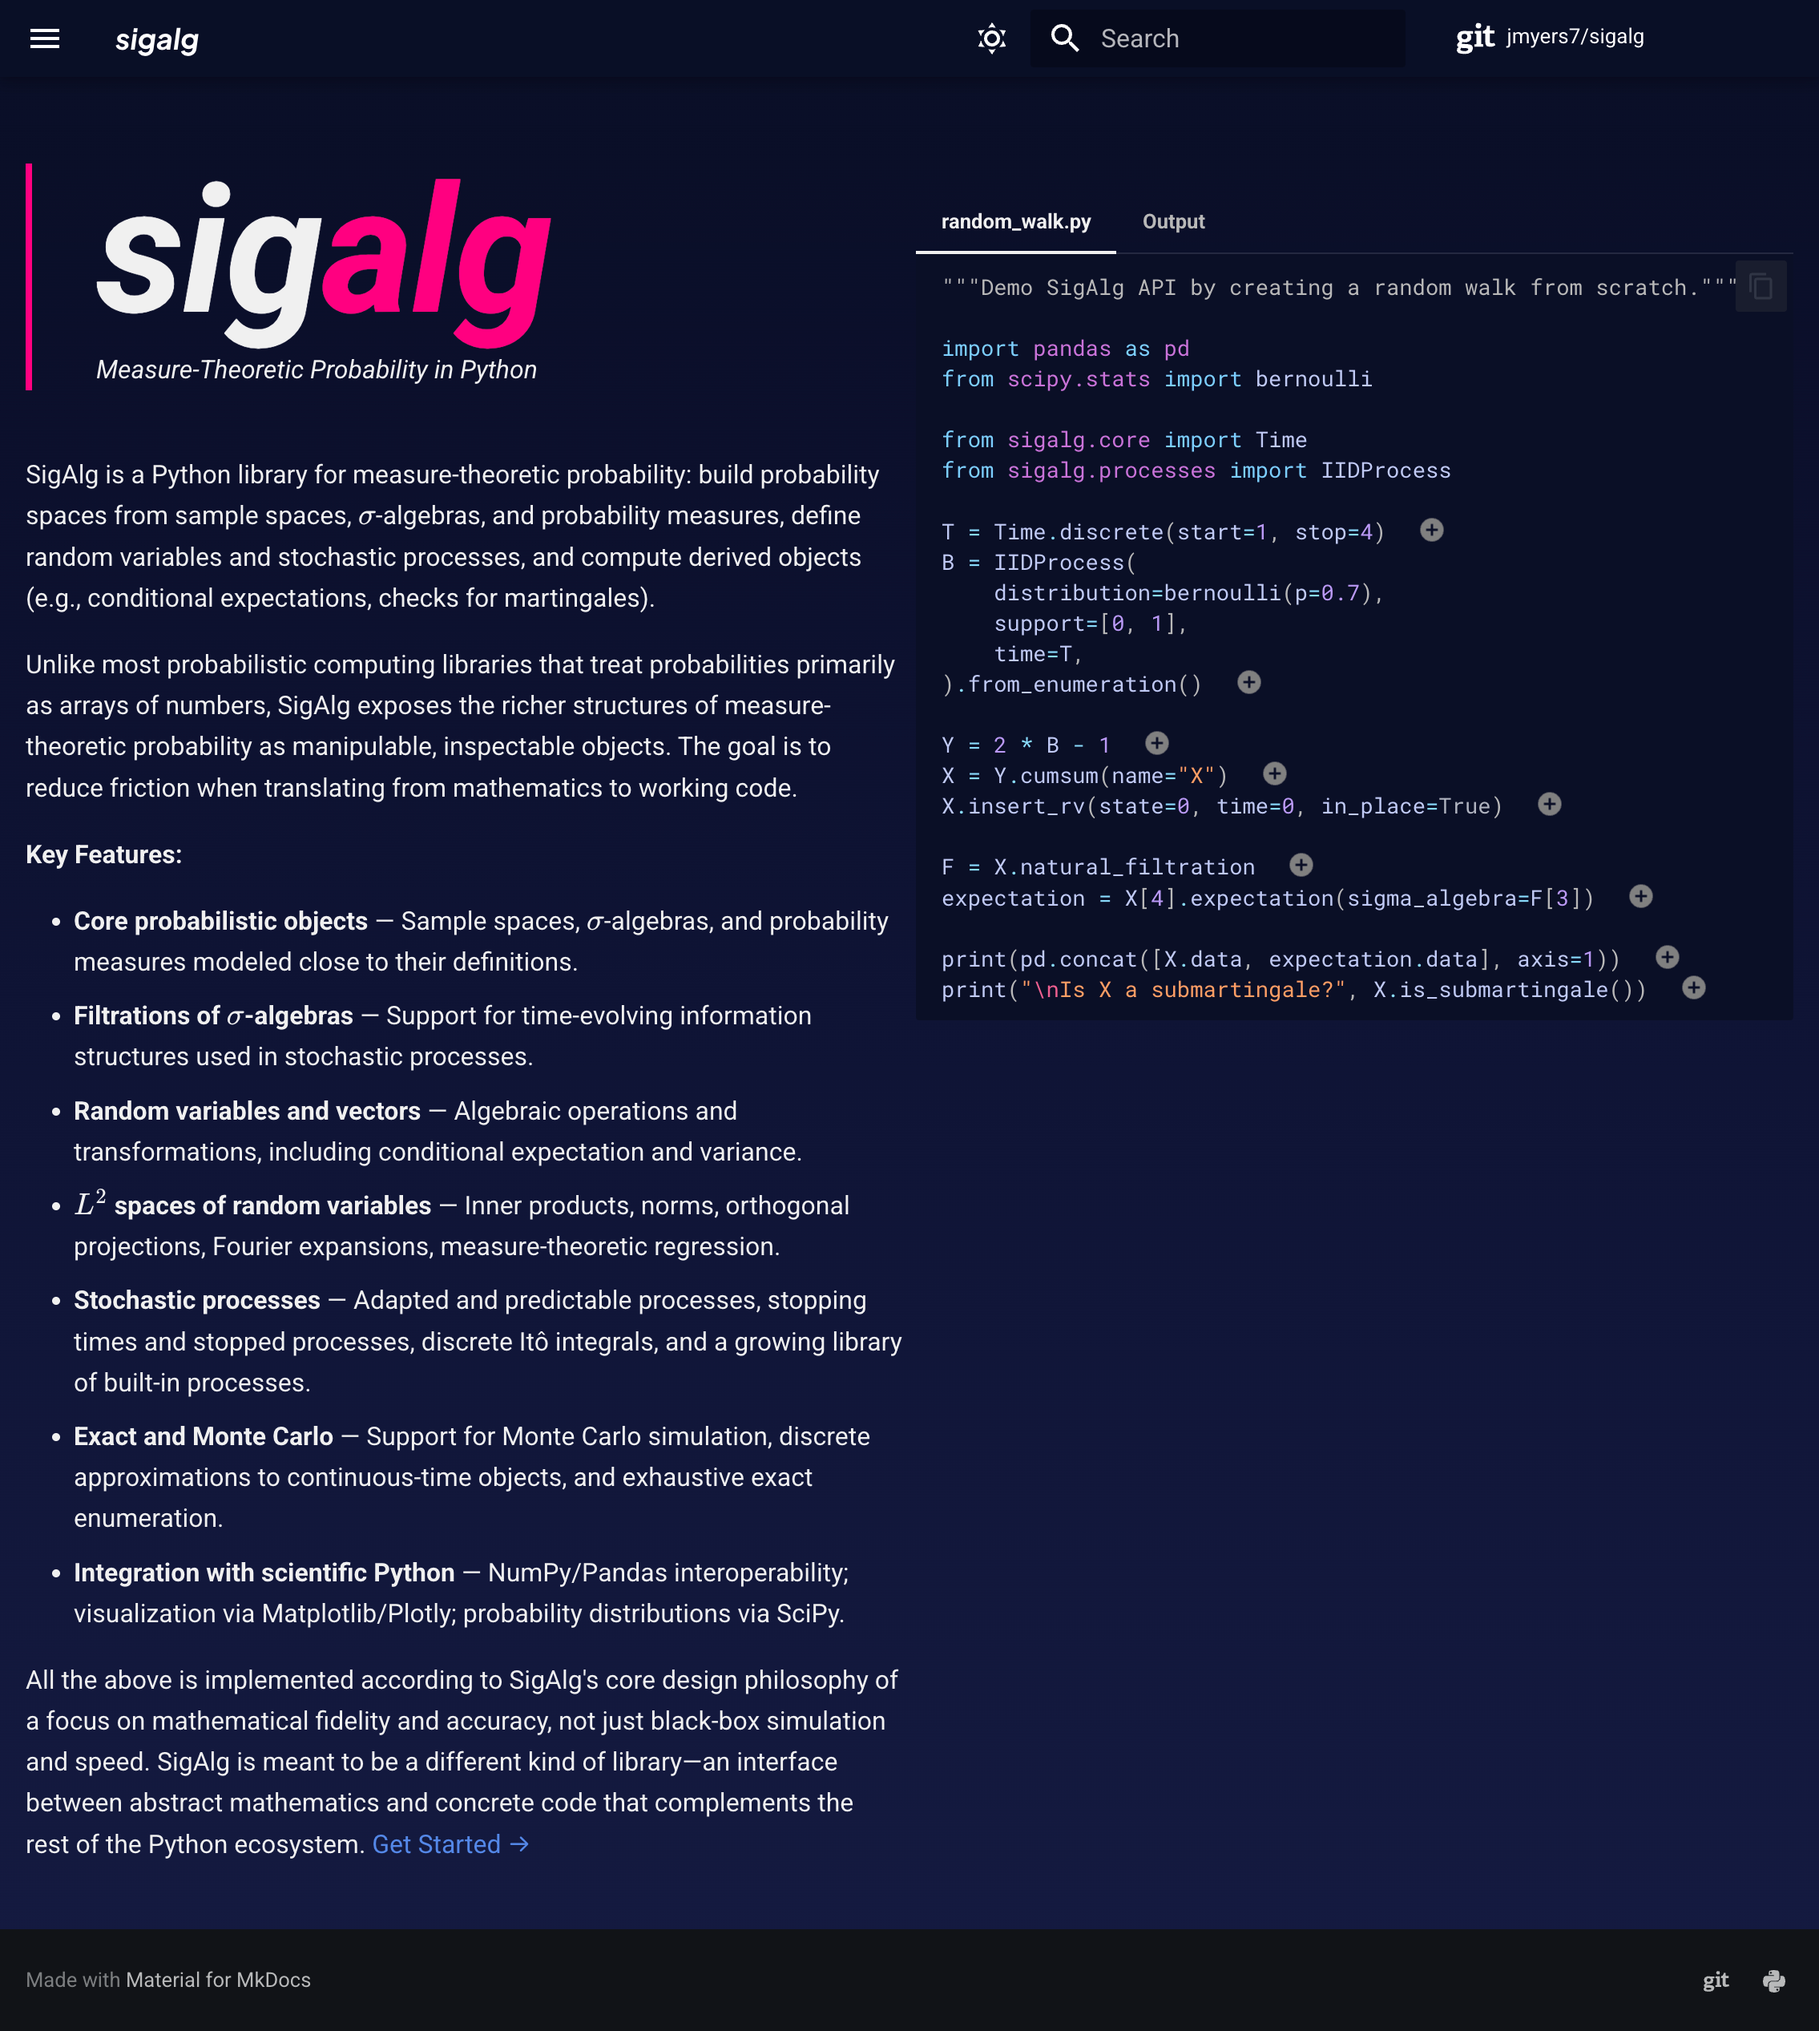
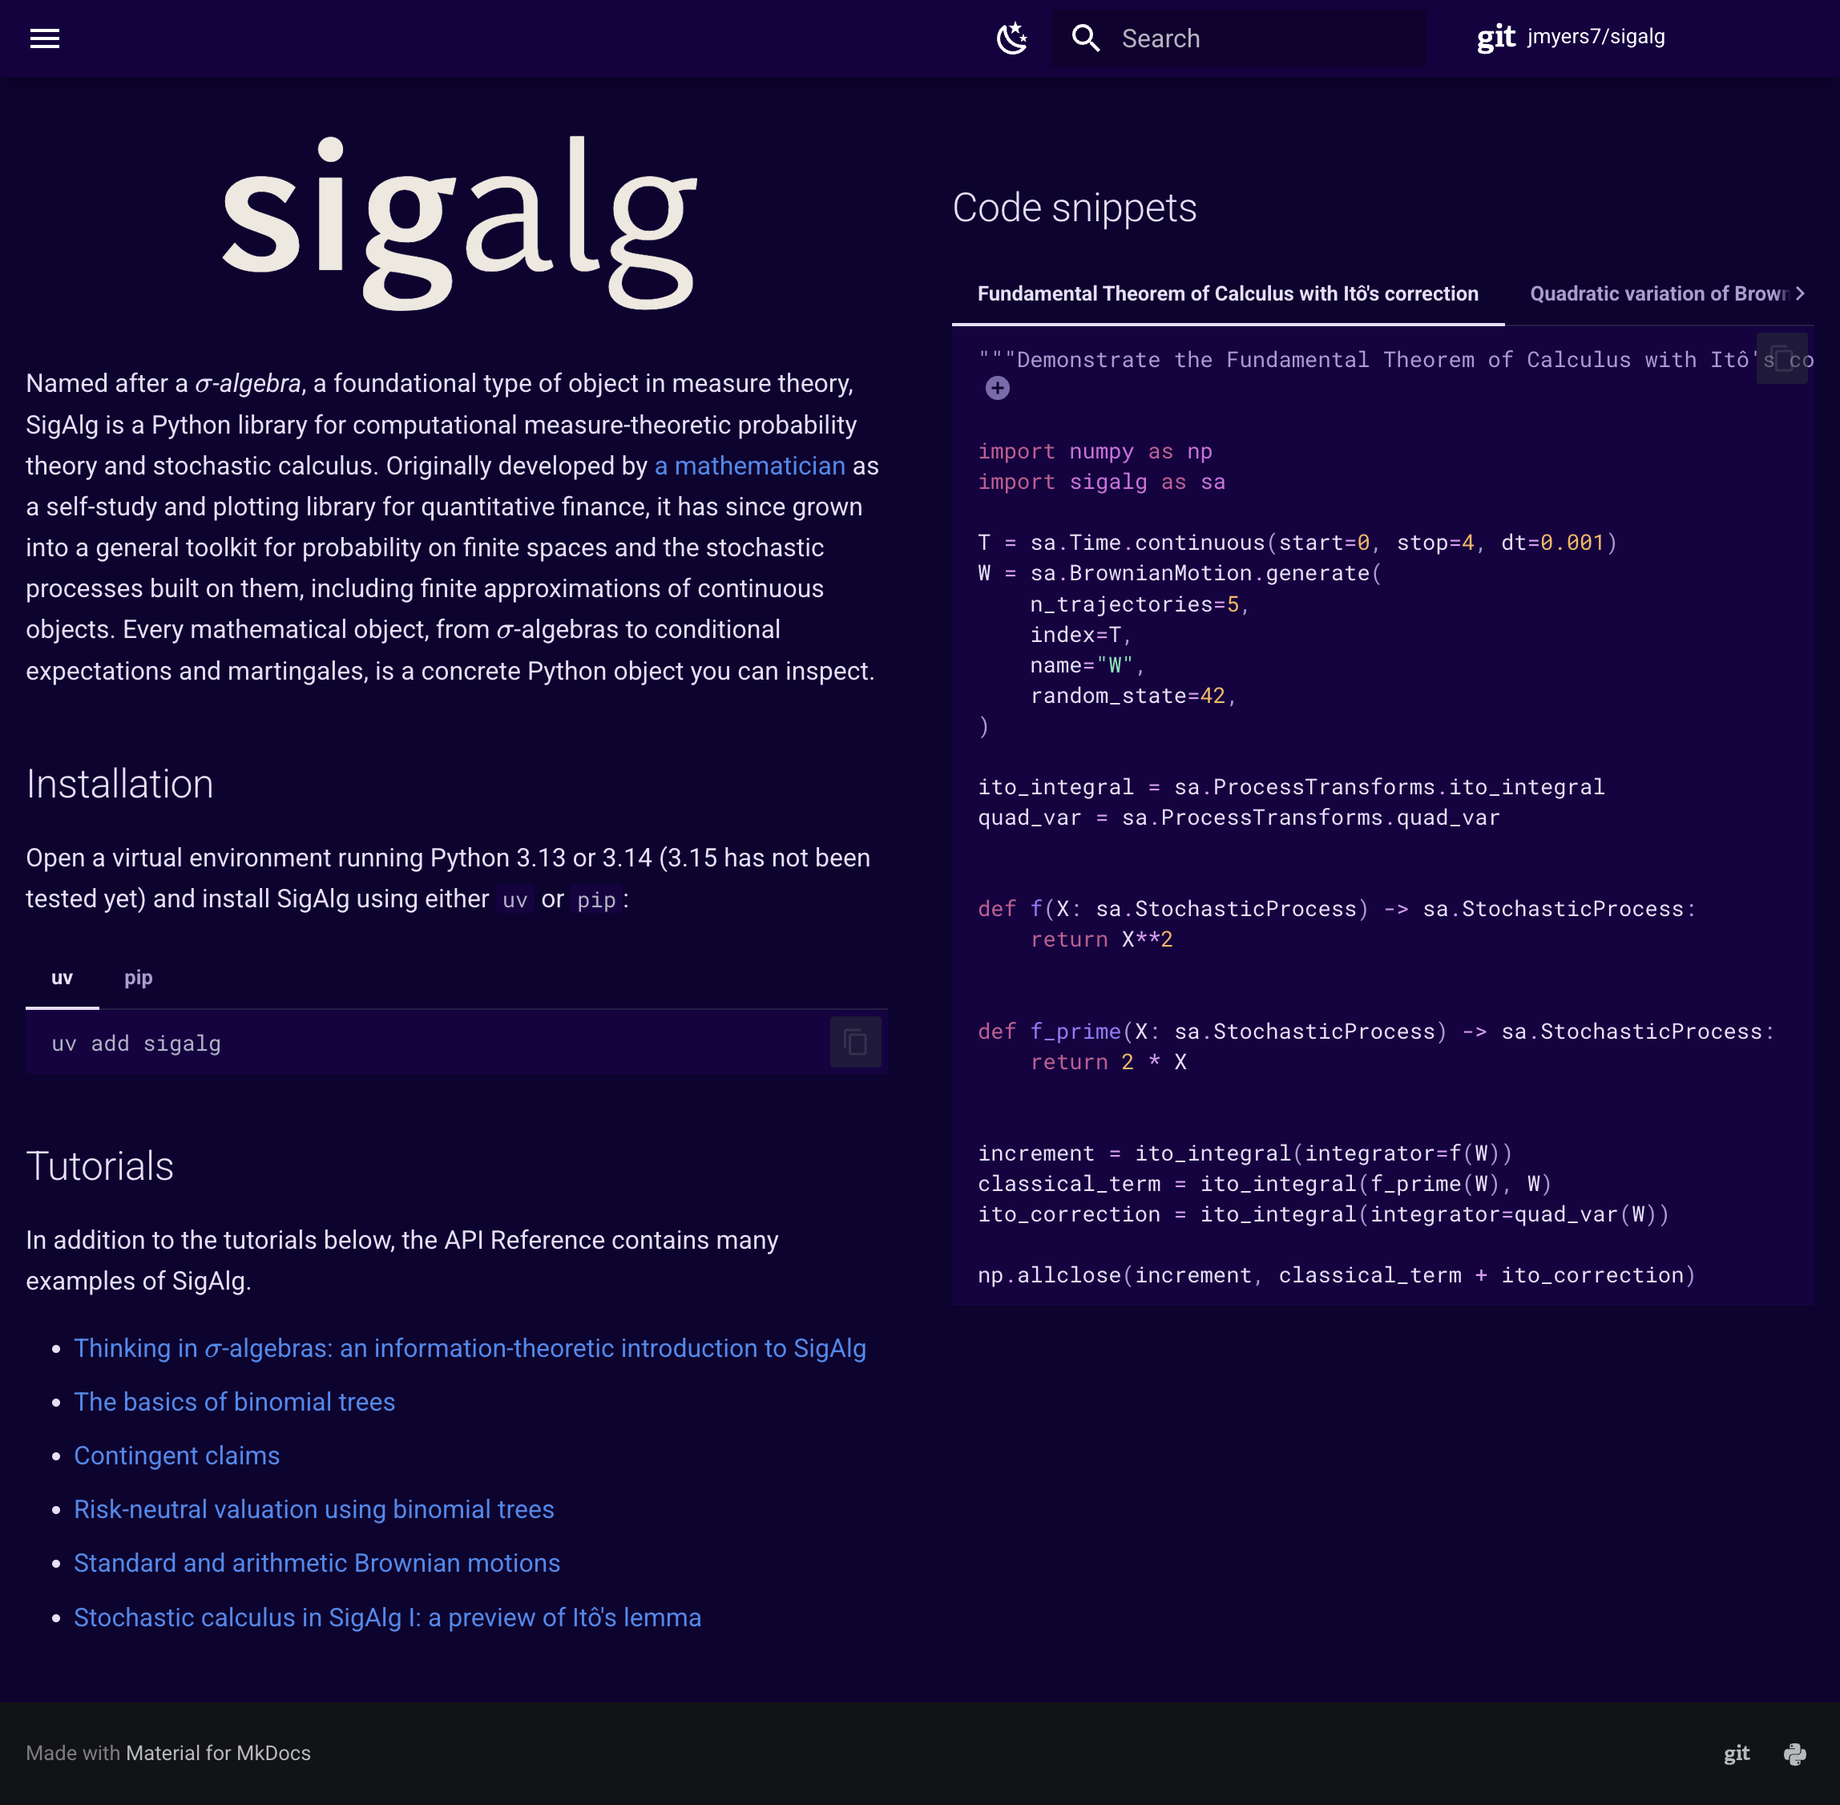
Update `docs` with new tutorial and rewritten landing page

diff --git a/docs/docs/stylesheets/extra.css b/docs/docs/stylesheets/extra.css
@@ -23,22 +23,22 @@
 }
 
 [data-md-color-scheme="default"] {
-    --md-primary-fg-color: #f0eafa;
-    --md-primary-fg-color--light: #faf7ff;
-    --md-primary-fg-color--dark: #f0eafa;
+    --md-primary-fg-color: #eeeef2;
+    --md-primary-fg-color--light: #f7f7f9;
+    --md-primary-fg-color--dark: #eeeef2;
 
     --md-accent-fg-color: #a03f74;
     --md-accent-fg-color--transparent: #a03f7433;
 
-    --md-default-bg-color: #faf7ff;
-    --md-default-bg-color--light: #f0eafa;
+    --md-default-bg-color: #f7f7f9;
+    --md-default-bg-color--light: #eeeef2;
     --md-default-bg-color--lighter: #ffffff;
 
     --md-default-fg-color: #0d032f;
     --md-default-fg-color--light: #5a4a8a;
     --md-default-fg-color--lighter: #7a6aa8;
 
-    --md-code-bg-color: #f0eafa;
+    --md-code-bg-color: #eeeef2;
     --md-typeset-a-color: #5a35c8;
 }
 
@@ -47,7 +47,7 @@
    ============================================================================= */
 
 [data-md-color-scheme="default"] .md-header {
-    background-color: rgba(240, 234, 250, 0.9) !important;
+    background-color: rgba(238, 238, 242, 0.98) !important;
     color: #25025c;
 }
 

diff --git a/docs/docs/index.md b/docs/docs/index.md
@@ -25,17 +25,11 @@ hide:
   <img src="assets/sigalg-dark-no-logo.svg" class="hero-logo hero-logo--dark" alt="SigAlg">
 </header>
 
-Named after a *$\sigma$-algebra*, a foundational type of object in modern probability theory, SigAlg is a Python library designed as a tool for theoreticians and practioners that work in the intersection of rigorous probability theory and computation. It was first conceived as a tool for experiments in quantitative finance, but its scope has since grown to include abstractions of core probabilistic objects ranging from probability spaces and random variables, to Radon-Nikodym derivatives and conditional KL divergences.
-
-The core design philosophy of SigAlg centers on mathematical fidelity and accuracy, not just black-box simulation and speed. The user manipulates random variables and other objects in SigAlg code as easily as they would with pen and paper, facilitating experimentation and reducing the friction between abstract mathematical concepts and concrete executable code.
-
-</div>
-
-<div markdown>
+Named after a *$\sigma$-algebra*, a foundational type of object in measure theory, SigAlg is a Python library for computational measure-theoretic probability theory and stochastic calculus. Originally developed by [a mathematician](https://github.com/jmyers7){target="_blank"} as a self-study and plotting library for quantitative finance, it has since grown into a general toolkit for probability on finite spaces and the stochastic processes built on them, including finite approximations of continuous objects. Every mathematical object, from $\sigma$-algebras to conditional expectations and martingales, is a concrete Python object you can inspect.
 
 ## Installation
 
-Open a virtual environment running Python 3.13 or later and install SigAlg using either `uv` or `pip`:
+Open a virtual environment running Python 3.13 or 3.14 (3.15 has not been tested yet) and install SigAlg using either `uv` or `pip`:
 
 === "uv"
     ```bash
@@ -46,17 +40,72 @@ Open a virtual environment running Python 3.13 or later and install SigAlg using
     pip install sigalg
     ```
 
-## Getting started
+## Tutorials
 
-SigAlg is under active development. The core was completely rewritten between `v0.1.11` and `v0.1.12`, which made the older introductory tutorials obsolete. They are being rewritten. In the meantime, several new tutorials preview SigAlg's applications in finance and stochastic calculus:
+In addition to the tutorials below, the API Reference contains many examples of SigAlg.
 
+- [Thinking in $\sigma$-algebras: an information-theoretic introduction to SigAlg](https://github.com/jmyers7/sigalg/blob/main/docs/notebooks/info-theory.ipynb){target="_blank"}
 - [The basics of binomial trees](https://github.com/jmyers7/sigalg/blob/main/docs/notebooks/binomial-pricing-model-1.ipynb){target="_blank"}
 - [Contingent claims](https://github.com/jmyers7/sigalg/blob/main/docs/notebooks/binomial-pricing-model-2.ipynb){target="_blank"}
 - [Risk-neutral valuation using binomial trees](https://github.com/jmyers7/sigalg/blob/main/docs/notebooks/binomial-pricing-model-3.ipynb){target="_blank"}
 - [Standard and arithmetic Brownian motions](https://github.com/jmyers7/sigalg/blob/main/docs/notebooks/brownian-motion-1.ipynb){target="_blank"}
 - [Stochastic calculus in SigAlg I: a preview of Itô's lemma](https://github.com/jmyers7/sigalg/blob/main/docs/notebooks/stochastic-calc-1.ipynb){target="_blank"}
 
-These tutorials are pitched at a higher level than a first introduction, which will follow soon. Until then, the API reference contains many code examples.
+
+</div>
+
+<div markdown>
+
+## Code snippets
+
+=== "Fundamental Theorem of Calculus with Itô's correction"
+    ```python
+    --8<-- "ftc-with-ito.py"
+    ```
+
+    1. The Fundamental Theorem of Calculus with Itô's correction states that $f(X_t) - f(X_0) = \int_0^t f'(X_u) \, dX_u + \frac{1}{2} \int_0^t f''(X_u) \, d[X]_u$, where $X_t$ is a "nice" stochastic process (like a diffusion), $f$ is a twice-differentiable function, and $[X]_t$ is the quadratic variation of $X_t$. The first term on the right of this equation is the *classical term*, while the second is *Itô's correction*.
+
+=== "Quadratic variation of Brownian motion"
+    ```python
+    --8<-- "quad-var.py"
+    ```
+
+    1. One of the foundational results in stochastic calculus states that $[W]_t = t$, where $W$ is a standard Brownian motion.
+
+=== "Binomial pricing models"
+    ```python
+    --8<-- "binomial-pricing.py"
+    ```
+
+    1. The value process $V_t$ of the replicating portfolio must have two properties: First, at maturity $T$ the value $V_T$ must equal the payoff of the option. Second, the portfolio must be *self-financing*, in the sense that $V_{t+1} = (1+r) B_t + S_{t+1} \Delta_t$.
+    2. The no-arbitrage condition guarnatees the existence of an *equivalent martingale measure* $Q$ (also called a *risk-neutral measure*) such that the discounted price process of the option is a martingale.
+
+=== "Trinomial pricing models"
+    ```python
+    --8<-- "trinomial-pricing.py"
+    ```
+
+    1. Trinomial pricing models are examples of incomplete markets, which means that multiple equivalent martingale measures (EMMs) exist. In SigAlg, the the EMMs are parametrized by a real number $\theta \in (0,1)$. The discounted price process of the asset is a martingale with respect to every EMM $Q$.
+    3. American option contracts allow early exercise, so their risk-neutral valuation turns into an optimal stopping problem. The price process of an American option with respect to an EMM is not a martingale, but rather a *super*martingale.
+    3. SigAlg can compute the optimal stopping time $\tau$ for an early-exercise option.
+    4. If we evaluate the discounted price process $(1+r)^{-t}X_t$ of the American option at the optimal stopping time $\tau$, we get a random variable $(1+r)^{-\tau}X_\tau$ whose expectation is the initial price of the option.
+
+=== "Markov chain"
+    ```python
+    --8<-- "markov-chain.py"
+    ```
+
+    1. The joint distribution $P$ of a Markov chain factors as $P(X_0=x_0,\ldots,X_T=x_T) = P(X_0=x_0) \prod_{k=0}^{T-1} P(X_{k+1}=x_{k+1} \mid X_{k} = x_{k})$.
+
+=== "Polynomial regression in an $L^2$-space"
+    ```python
+    --8<-- "polynomial-regression.py"
+    ```
+
+    1. Define the Hilbert space $\mathcal{H} = L^2(\Omega, \mathcal{F},P)$.
+    2. Define a random variable $X$ on a sample space of cardinality $20$, and another random variable $Y = 2+3X-X^2 + \epsilon$ where $\epsilon$ is a random noise term.
+    3. We will project $Y$ onto the subspace spanned by $1$, $X$, and $X^2$ in an $L^2$-space.
+    4. Get the coefficients from the orthogonal projection, and plot the fit.
 
 </div>
 
